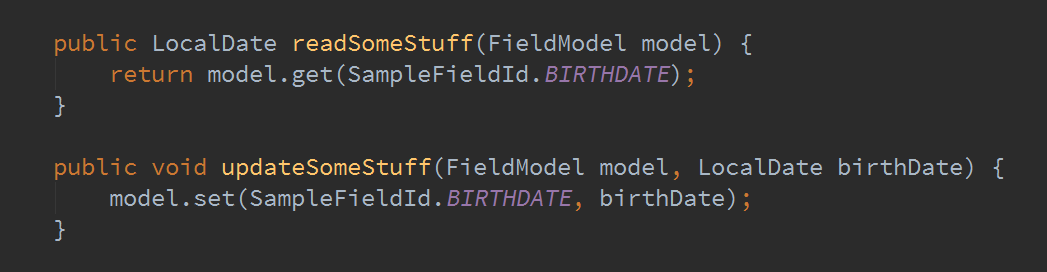
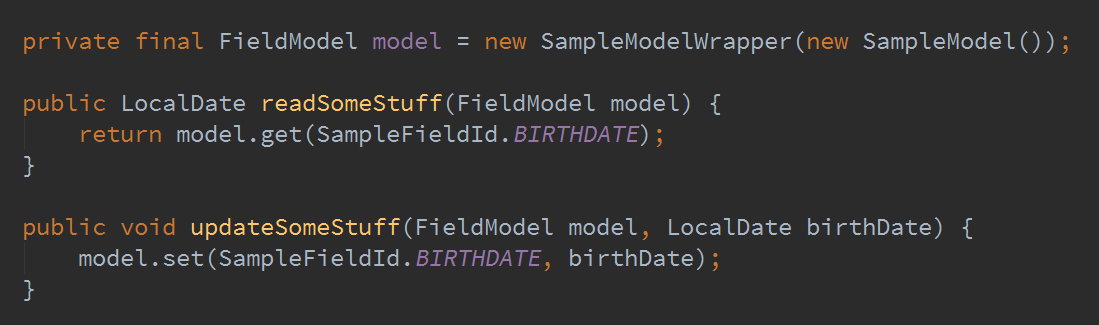
add slides about generated classes and API

diff --git a/doc/org_modelmap.html b/doc/org_modelmap.html
@@ -204,9 +204,15 @@
           <h2>Step 1 : one FieldId Enumeration</h2>
           <ul class="fragment">
             <li>one literal for each class property/key</li>
-            <li>use tag to add meta-information (optionnal)</li>
+            <li>position : used when collections are denormalized (optional)</li>
+            <li>tag : used to add meta-information (optionnal)</li>
           </ul>
-          <img class="fragment" width="100%" src="png/org_modelmap_migration_step_1.png">
+          <p></p>
+          <img class="fragment" width="60%" src="png/org_modelmap_migration_step_1_1.png">
+        </section>
+        <section>
+          <h2>Step 1 : one FieldId Enumeration</h2>
+          <img class="fragment" width="100%" src="png/org_modelmap_migration_step_1_2.png">
         </section>
         <section>
           <h2>Step 2 : one Repeatable Annotation </h2>
@@ -223,6 +229,13 @@
             <li>getter and setter must follow Java naming conventions</li>
           </ul>
           <img class="fragment" width="100%" src="png/org_modelmap_migration_step_3.png">
+        </section>
+        <section>
+          <h2>Step 4 : generate the key value model</h2>
+          <ul class="fragment">
+           
+          </ul>
+          <img class="fragment" width="100%" src="png/org_modelmap_migration_step_4.png">
         </section>
 
 
@@ -365,8 +378,8 @@
             <li>The generated model implements the FieldModel interface.</li>
             <li></li>
             <li>The 2 main methods are a getter and setter by FieldId.</li>
-            <p></p>
           </ul>
+          <p></p>
           <img class="fragment" src="png/org_modelmap_maven_codegen_3_1.png">
         </section>
          <section>

diff --git a/sample/test/src/test/java/org/modelmap/example/ModelManipulationTest.java b/sample/test/src/test/java/org/modelmap/example/ModelManipulationTest.java
@@ -3,8 +3,9 @@
  */
 package org.modelmap.example;
 
-import java.util.*;
+import java.util.Collections;
 import java.util.Map.Entry;
+import java.util.Objects;
 import java.util.stream.Collectors;
 import java.util.stream.Stream;
 
@@ -13,10 +14,8 @@ import org.modelmap.core.FieldId;
 import org.modelmap.core.FieldModel;
 import org.modelmap.sample.field.SampleFieldId;
 import org.modelmap.sample.model.*;
-import org.modelmap.sample2.model.*;
 
 import com.fasterxml.jackson.core.JsonProcessingException;
-import com.fasterxml.jackson.databind.ObjectMapper;
 
 public class ModelManipulationTest {
 
@@ -28,6 +27,17 @@ public class ModelManipulationTest {
                         .reduce("", String::concat);
 
         System.out.println(csv);
+    }
+
+    @Test
+    public void json() throws JsonProcessingException {
+        SampleModel sample = SampleModels.sample();
+        String jsonValues = new SampleModelWrapper(sample).parallelStream()
+                        .map(e -> "  \"" + e.getKey() + "=" + String.valueOf(e.getValue()) + "\"\n")
+                        .reduce("", String::concat);
+        String json = "{\n" + jsonValues + "\n}";
+
+        System.out.println(json);
     }
 
     @Test
@@ -87,20 +97,5 @@ public class ModelManipulationTest {
         public String toString() {
             return fieldId + ";" + String.valueOf(left) + ";" + String.valueOf(right);
         }
-    }
-
-    private static final ObjectMapper OBJECT_MAPPER = new ObjectMapper();
-
-    @Test
-    public void json() throws JsonProcessingException {
-
-        Sample2Model sample = Sample2Models.sample();
-
-        Map<FieldId, String> values = new Sample2ModelWrapper(sample).stream()
-                        .collect(Collectors.toMap(Entry::getKey, e -> String.valueOf(e.getValue())));
-
-        OBJECT_MAPPER.writeValueAsString(values);
-
-        System.out.println(OBJECT_MAPPER.writeValueAsString(values));
     }
 }

diff --git a/sample/test/src/main/java/org/modelmap/example/ExampleAccount.java b/sample/test/src/main/java/org/modelmap/example/ExampleAccount.java
@@ -5,8 +5,7 @@ package org.modelmap.example;
 
 import org.modelmap.core.FieldModel;
 import org.modelmap.sample.field.SampleFieldId;
-import org.modelmap.sample.model.FavoriteWebsite;
-import org.modelmap.sample.model.SampleModel;
+import org.modelmap.sample.model.*;
 
 @SuppressWarnings("unused")
 public class ExampleAccount {
@@ -43,6 +42,8 @@ public class ExampleAccount {
     }
 
     public class WithKeyValueModel {
+
+        private final FieldModel model = new SampleModelWrapper(new SampleModel());
 
         public String readSomeStuff(FieldModel model) {
             return model.get(SampleFieldId.FAVORITE_SITE_URL_2);

diff --git a/sample/test/src/main/java/org/modelmap/example/ExampleUser.java b/sample/test/src/main/java/org/modelmap/example/ExampleUser.java
@@ -8,6 +8,7 @@ import java.time.LocalDate;
 import org.modelmap.core.FieldModel;
 import org.modelmap.sample.field.SampleFieldId;
 import org.modelmap.sample.model.SampleModel;
+import org.modelmap.sample.model.SampleModelWrapper;
 
 @SuppressWarnings("unused")
 public class ExampleUser {
@@ -33,6 +34,8 @@ public class ExampleUser {
     }
 
     public class WithKeyValueModel {
+
+        private final FieldModel model = new SampleModelWrapper(new SampleModel());
 
         public LocalDate readSomeStuff(FieldModel model) {
             return model.get(SampleFieldId.BIRTHDATE);
